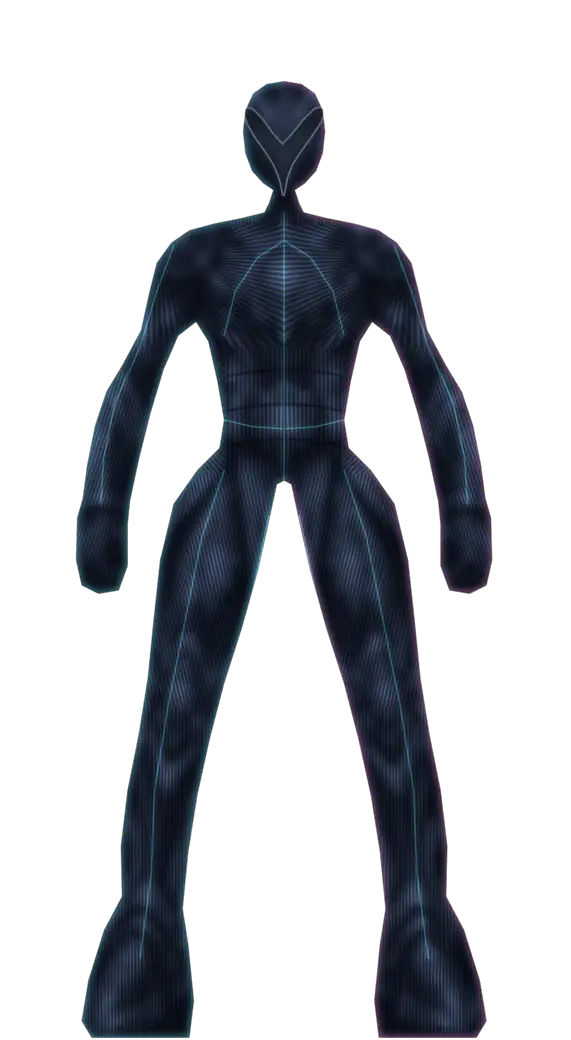
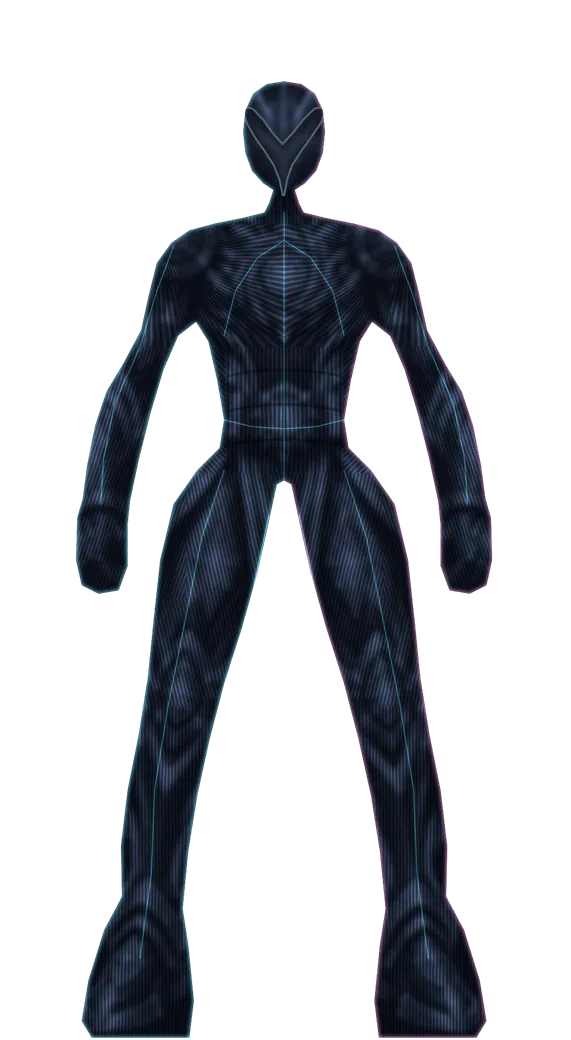
Rexonance ZENITH: a sharper undersuit (crisper outline, form, seams and fibres) and an angular bare face (owner)

diff --git a/src/lib/rexonance-resonance.js b/src/lib/rexonance-resonance.js
@@ -1413,8 +1413,8 @@ function drawBareFace(context, config, scan, fade) {
   context.closePath();
   context.fillStyle = "rgb(6 9 16 / 0.5)";
   context.fill();
-  context.lineWidth = 1.4;
-  context.strokeStyle = "rgb(170 192 216 / 0.7)";
+  context.lineWidth = 1.1;
+  context.strokeStyle = "rgb(196 216 236 / 0.85)";
   context.stroke();
   context.beginPath();
   for (let i = 0; i < glow.length; i += 1) {
@@ -1427,27 +1427,34 @@ function drawBareFace(context, config, scan, fade) {
   context.lineWidth = 0.7;
   context.strokeStyle = "rgb(122 168 204 / 0.5)";
   context.stroke();
-  // The crown: a centre ridge, two brow plates and the crest's facets
-  // rising from the visor's upper corners.
+  // The crown, sharp (owner, 2026-10-18): a pointed crest over the visor,
+  // angular brow chevrons, the facets rising from the visor's corners, side
+  // vents raked back and blade seams on the cheeks.
   context.beginPath();
-  context.moveTo(vx, top + eh * 0.03);
+  context.moveTo(vx, top + eh * 0.02);
   context.lineTo(vx, y0 + eh * 0.04);
+  context.moveTo(vx - hw * 0.16, top + eh * 0.12);
+  context.lineTo(vx, top + eh * 0.01);
+  context.lineTo(vx + hw * 0.16, top + eh * 0.12);
   for (const side of [-1, 1]) {
-    context.moveTo(vx + side * 1.2, y0 - eh * 0.05);
-    context.quadraticCurveTo(vx + side * hw * 0.5, y0 - eh * 0.2, vx + side * hw * 0.92, y0 - eh * 0.02);
-    context.moveTo(vx + side * 1.2, y0 - eh * 0.16);
-    context.quadraticCurveTo(vx + side * hw * 0.42, y0 - eh * 0.3, vx + side * hw * 0.78, y0 - eh * 0.2);
+    context.moveTo(vx + side * 1, y0 - eh * 0.03);
+    context.lineTo(vx + side * hw * 0.46, y0 - eh * 0.16);
+    context.lineTo(vx + side * hw * 0.94, y0 + eh * 0.01);
+    context.moveTo(vx + side * 1, y0 - eh * 0.15);
+    context.lineTo(vx + side * hw * 0.4, y0 - eh * 0.27);
+    context.lineTo(vx + side * hw * 0.8, y0 - eh * 0.17);
     context.moveTo(vx + side * hw * 0.9, y0 + eh * 0.01);
-    context.lineTo(vx + side * hw * 0.3, top + eh * 0.04);
-    // Side vents beside the visor.
+    context.lineTo(vx + side * hw * 0.24, top + eh * 0.06);
     for (let k = 0; k < 3; k += 1) {
-      const ty = y0 + eh * (0.2 + k * 0.09);
-      context.moveTo(vx + side * hw * 0.98, ty);
-      context.lineTo(vx + side * hw * 0.82, ty + eh * 0.05);
+      const ty = y0 + eh * (0.18 + k * 0.09);
+      context.moveTo(vx + side * hw * 0.99, ty);
+      context.lineTo(vx + side * hw * 0.8, ty + eh * 0.07);
     }
+    context.moveTo(vx + side * hw * 0.97, y0 + eh * 0.5);
+    context.lineTo(vx + side * hw * 0.62, y1 - eh * 0.02);
   }
-  context.lineWidth = 0.8;
-  context.strokeStyle = "rgb(150 178 206 / 0.55)";
+  context.lineWidth = 0.75;
+  context.strokeStyle = "rgb(176 202 228 / 0.72)";
   context.stroke();
   // The chin's grille, under the V's point.
   context.beginPath();

diff --git a/src/lib/rexonance-suit.ts b/src/lib/rexonance-suit.ts
@@ -1,7 +1,7 @@
 // Generated by scripts/build-rexonance-suit.mjs from
 // design/rexonance-suit/rexonance-full-20261010.jpg — do not edit by hand.
 // Figure coordinates are delivery pixels of the 571 x 1040 figure.
-// 6 files, 650796 bytes.
+// 6 files, 664682 bytes.
 
 export const REXONANCE_SUIT_SIZE = { width: 571, height: 1040 } as const;
 
